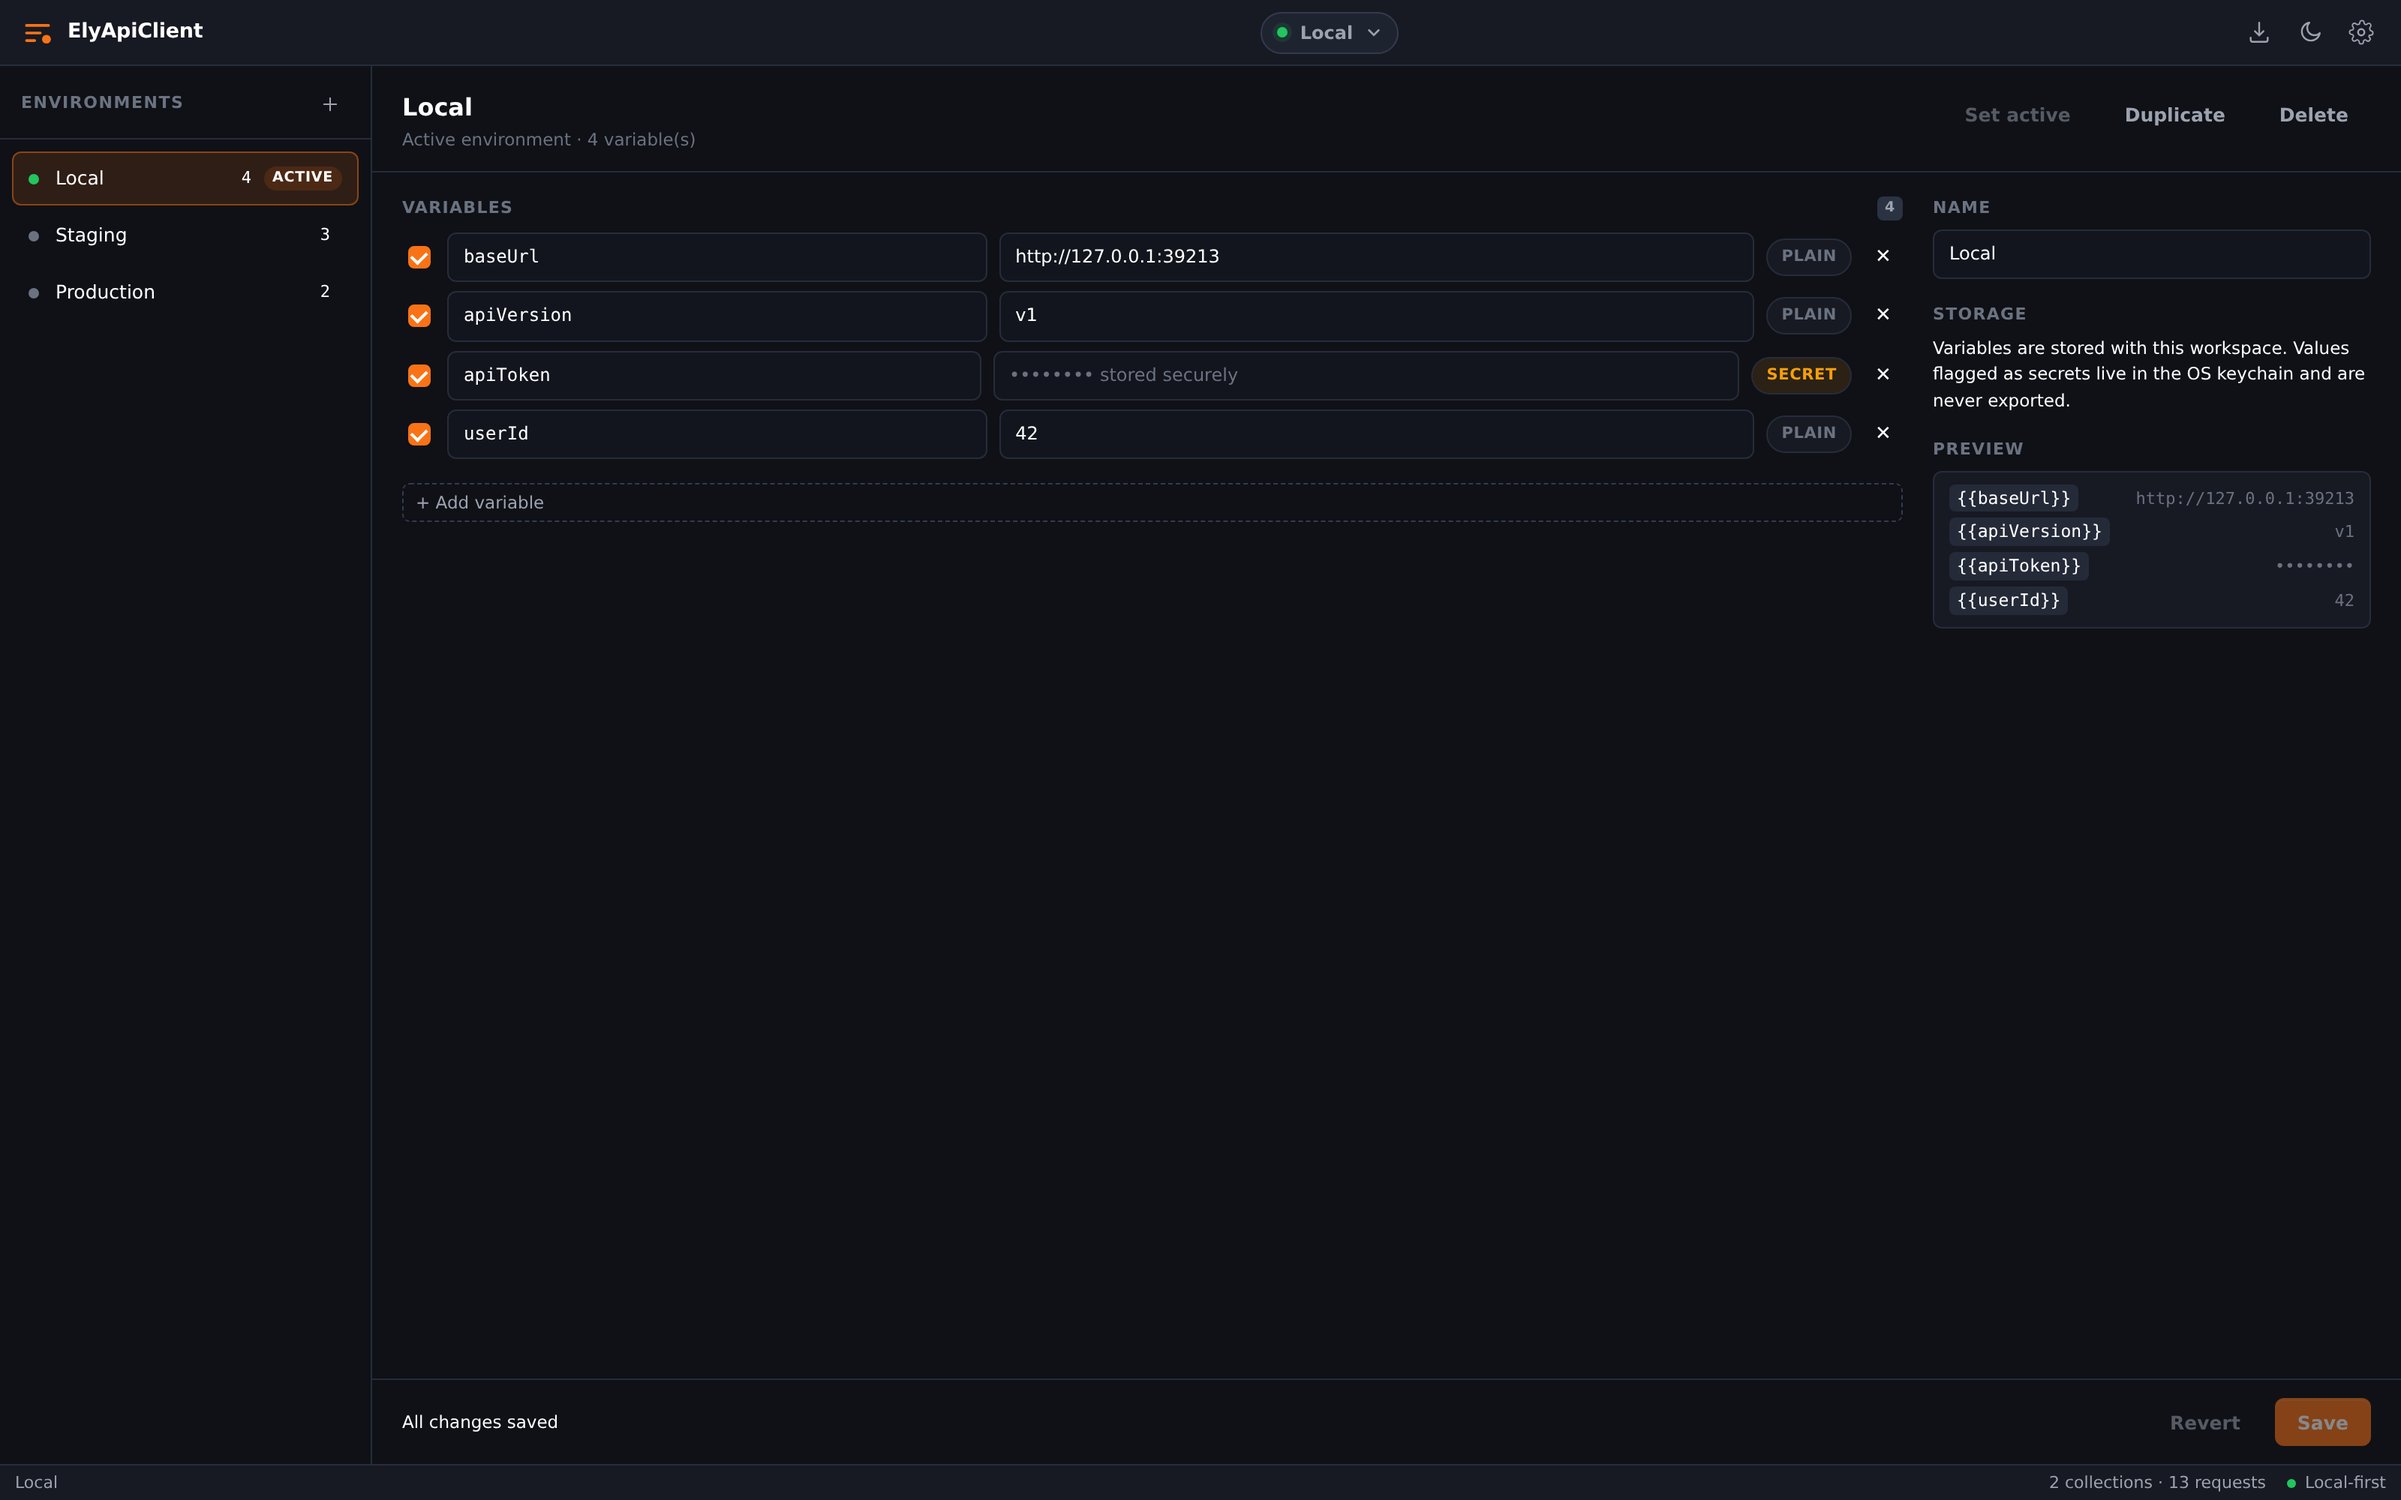
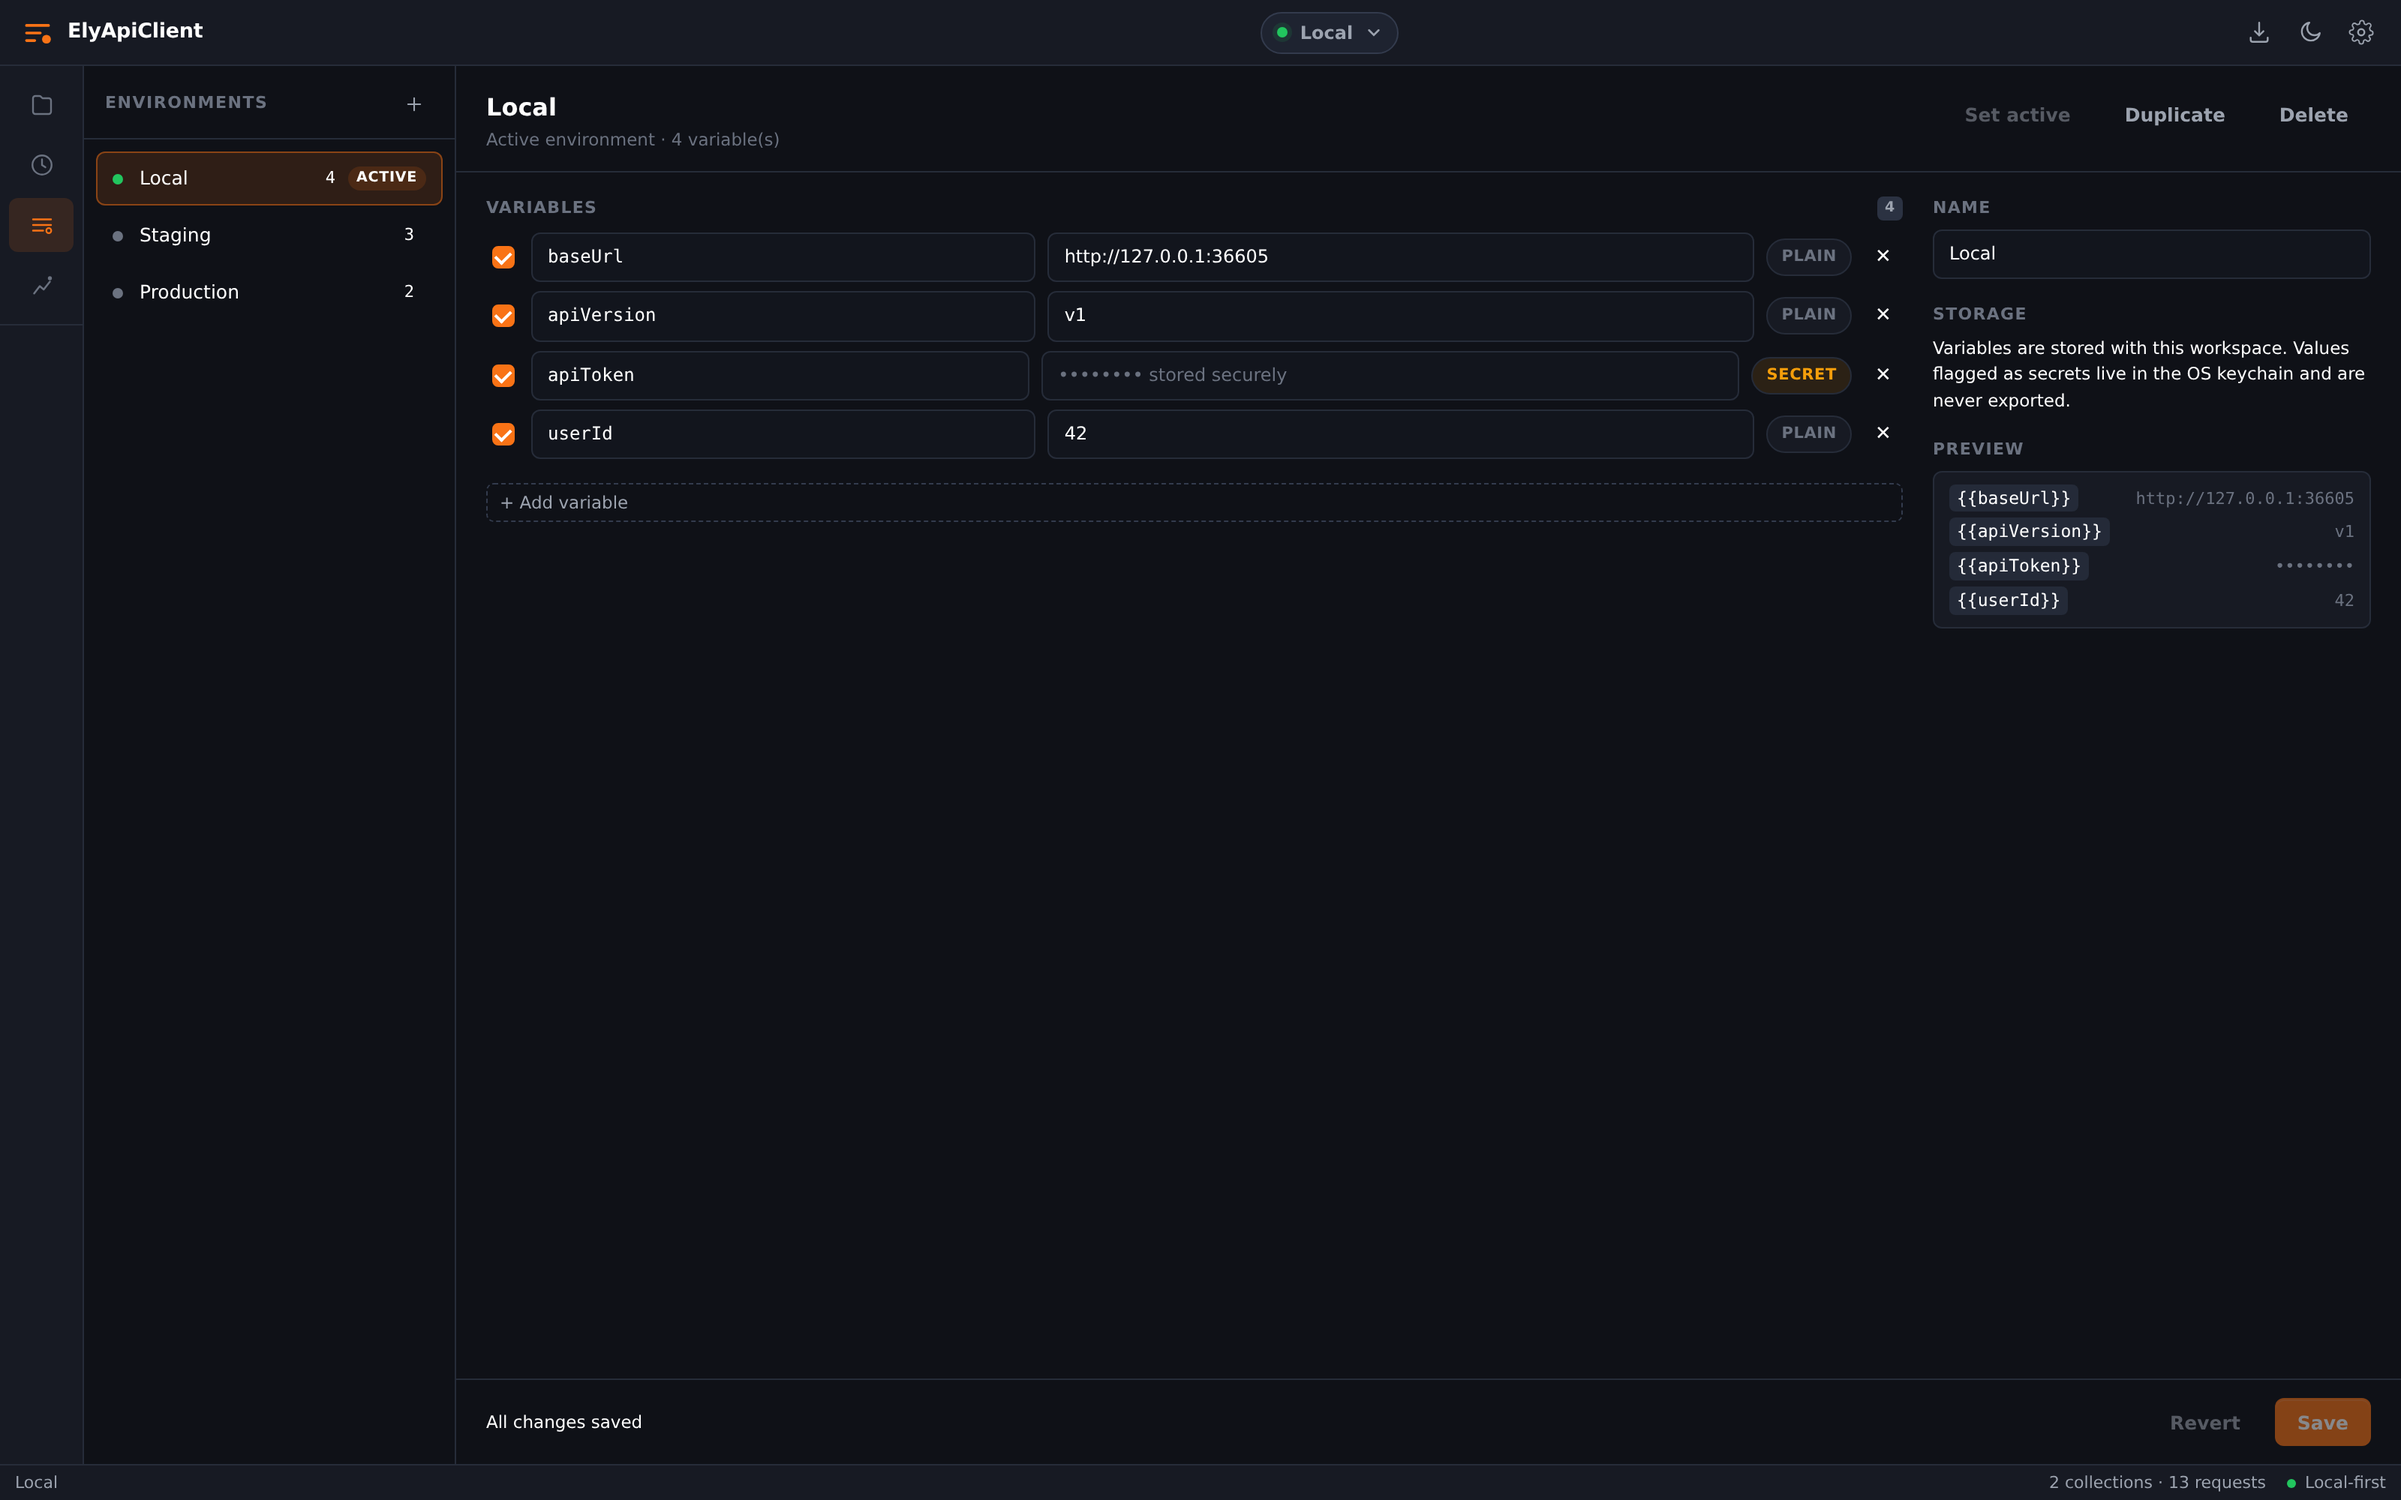
Keep every section reachable from the environment manager
The manager replaced the whole pane and hid the explorer with it, which stranded the
user inside it: the section tabs were gone and clicking an open request tab did not
bring the editor back. The explorer now collapses to a slim icon rail while the
manager is open, section switching is factored into selectSection(), and activating a
document leaves the manager (and any WebSocket session) behind.

Also adds the explorer footer from the reference design: + New Collection and
+ New Folder, with the folder created in whichever collection or folder is selected.

diff --git a/media/scripts/app.js b/media/scripts/app.js
@@ -571,6 +571,11 @@
     state.activeId = id;
     state.selection = { type: 'request', id };
     renderTabs();
+    // The environment manager replaces the whole pane; opening a request must bring the editor
+    // back into view instead of leaving the user on the manager.
+    if (state.section === 'environments' || state.websocketOpen) {
+      selectSection('collections');
+    }
     renderWorkspace();
     renderTree();
   }
@@ -1867,6 +1872,31 @@
     });
   }
 
+  /**
+   * Creates a folder in the collection that owns the current selection, so the footer button needs
+   * no extra picker when the user already has a collection in focus.
+   */
+  function createNewFolderFromFooter() {
+    const collections = state.snapshot.collections || [];
+    if (!collections.length) {
+      createCollection();
+      return;
+    }
+    const selection = state.selection || {};
+    let collectionId = null;
+    if (selection.type === 'collection') collectionId = selection.id;
+    if (selection.type === 'folder') {
+      const folder = state.snapshot.folders.find((candidate) => candidate.id === selection.id);
+      if (folder) collectionId = folder.collectionId;
+    }
+    if (selection.type === 'request') {
+      const request = requestById(selection.id);
+      if (request && request.collectionId) collectionId = request.collectionId;
+    }
+    if (!collectionId) collectionId = collections[0].id;
+    createFolder(collectionId, null);
+  }
+
   function createFolder(collectionId, parentFolderId) {
     UI.promptDialog({ title: 'New folder', label: 'Folder name', value: 'New Folder' }).then((name) => {
       if (name) post({ type: 'folder:create', payload: { collectionId, parentFolderId, name } });
@@ -2694,31 +2724,35 @@
       });
     }
     for (const button of $$('.sidebar-tab')) {
-      button.addEventListener('click', () => {
-        state.section = button.dataset.section;
-        Ely.store.set({ section: state.section });
-        for (const tab of $$('.sidebar-tab')) {
-          tab.classList.toggle('is-active', tab === button);
-          tab.setAttribute('aria-selected', tab === button ? 'true' : 'false');
-        }
-        for (const panel of $$('.sidebar-panel')) {
-          panel.hidden = panel.dataset.panel !== state.section;
-        }
-        // The manager owns the whole pane (it renders its own environment list), so the explorer
-        // column is collapsed while it is active.
-        document.body.classList.toggle('manager-mode', state.section === 'environments');
-        if (state.section === 'environments') {
-          renderWorkspace();
-          renderEnvironmentManager();
-        }
-        if (state.section === 'websocket') {
-          openWebSocketWorkspace();
-        } else if (state.websocketOpen) {
-          // Switching to any other sidebar section must leave the WebSocket workspace, otherwise
-          // its UI stays on screen and the request editor is unreachable.
-          closeWebSocketWorkspace();
-        }
-      });
+      button.addEventListener('click', () => selectSection(button.dataset.section));
+    }
+  }
+
+  /**
+   * Activates a sidebar section and the workspace it owns. Every section change re-renders the main
+   * pane so leaving the environment manager can never leave it on screen.
+   */
+  function selectSection(section) {
+    state.section = section;
+    Ely.store.set({ section });
+    for (const tab of $$('.sidebar-tab')) {
+      const isActive = tab.dataset.section === section;
+      tab.classList.toggle('is-active', isActive);
+      tab.setAttribute('aria-selected', isActive ? 'true' : 'false');
+    }
+    for (const panel of $$('.sidebar-panel')) {
+      panel.hidden = panel.dataset.panel !== section;
+    }
+    // In manager mode the explorer collapses to an icon rail (see `body.manager-mode`), so the
+    // grid track order must stay sidebar-then-main.
+    document.body.classList.toggle('manager-mode', section === 'environments');
+    renderWorkspace();
+    if (section === 'websocket') {
+      openWebSocketWorkspace();
+    } else if (state.websocketOpen) {
+      // Switching to any other sidebar section must leave the WebSocket workspace, otherwise its
+      // UI stays on screen and the request editor is unreachable.
+      closeWebSocketWorkspace();
     }
   }
 
@@ -2797,6 +2831,8 @@
 
   function bindTopbar() {
     $('#btn-new-collection').addEventListener('click', createCollection);
+    $('#btn-new-collection-footer').addEventListener('click', createCollection);
+    $('#btn-new-folder-footer').addEventListener('click', createNewFolderFromFooter);
     $('#btn-new-environment').addEventListener('click', createEnvironment);
     $('#btn-import').addEventListener('click', () => {
       UI.showMenu($('#btn-import'), [

diff --git a/media/styles/main.css b/media/styles/main.css
@@ -813,6 +813,31 @@ textarea {
   margin-top: 10px;
 }
 
+/* Footer actions of the explorer: the reference design surfaces "New Collection" and "New Folder"
+   as buttons instead of hiding them in the context menu. */
+.sidebar-footer {
+  display: grid;
+  grid-template-columns: 1fr 1fr;
+  gap: 6px;
+  padding: 8px;
+  border-top: 1px solid var(--border);
+  margin-top: auto;
+}
+
+.sidebar-footer .button {
+  justify-content: center;
+  gap: 5px;
+  font-size: 11px;
+  padding: 6px 4px;
+  white-space: nowrap;
+}
+
+.sidebar-footer .button svg {
+  width: 13px;
+  height: 13px;
+  flex: 0 0 auto;
+}
+
 .sidebar-hint {
   margin: 8px;
   padding: 9px 11px;
@@ -3267,15 +3292,29 @@ mark.hit.is-current {
   flex: 1;
 }
 
-/* While the environment manager is open it takes the place of the explorer. `.workspace` is a
-   two-column grid, so the sidebar must be removed from the layout *and* its grid track collapsed —
-   otherwise the manager inherits the narrow column. */
-body.manager-mode .sidebar {
+/* While the environment manager is open it takes the place of the explorer, which would otherwise
+   repeat the environment list. The explorer collapses to an icon rail that keeps every section
+   reachable — hiding it outright stranded the user in the manager with no way back. */
+body.manager-mode .workspace {
+  grid-template-columns: 56px minmax(0, 1fr);
+}
+
+body.manager-mode .sidebar-nav {
+  grid-template-columns: minmax(0, 1fr);
+  gap: 4px;
+  padding: 8px 6px;
+}
+
+body.manager-mode .sidebar-tab {
+  padding: 9px 0;
+}
+
+body.manager-mode .sidebar-tab span {
   display: none;
 }
 
-body.manager-mode .workspace {
-  grid-template-columns: minmax(0, 1fr);
+body.manager-mode .sidebar-body {
+  display: none;
 }
 
 /* The manager is the only flex child of `.main` while active, so it must flex to fill it. */

diff --git a/media/webview/index.html b/media/webview/index.html
@@ -77,6 +77,16 @@
                 </button>
               </div>
               <div id="collection-tree" class="tree" role="tree" aria-label="Collections"></div>
+              <footer class="sidebar-footer">
+                <button id="btn-new-collection-footer" class="button ghost small" type="button" title="Create a collection">
+                  <svg viewBox="0 0 24 24" aria-hidden="true"><path d="M12 5v14M5 12h14" stroke="currentColor" stroke-width="2" stroke-linecap="round"/></svg>
+                  New Collection
+                </button>
+                <button id="btn-new-folder-footer" class="button ghost small" type="button" title="Create a folder in the selected collection">
+                  <svg viewBox="0 0 24 24" aria-hidden="true"><path d="M4 7a2 2 0 0 1 2-2h3l2 2h7a2 2 0 0 1 2 2v8a2 2 0 0 1-2 2H6a2 2 0 0 1-2-2Z" stroke="currentColor" stroke-width="1.6" fill="none" stroke-linejoin="round"/></svg>
+                  New Folder
+                </button>
+              </footer>
             </div>
 
             <div class="sidebar-panel" data-panel="history" hidden>

diff --git a/README.md b/README.md
@@ -74,7 +74,9 @@ webview never receives a stored secret back.
 ### 6. Collections and folders
 
 Nested collections, folders and requests with drag-free organisation, inline rename, duplicate,
-move, delete (with confirmation), and search across the tree.
+move, delete (with confirmation), and search across the tree. The footer keeps **+ New Collection**
+and **+ New Folder** one click away — the folder lands in whichever collection or folder is selected,
+so organising never means hunting through a context menu.
 
 ![Collections and folders](docs/screenshots/06-collections.png)
 
@@ -88,7 +90,8 @@ A master-detail editor: environments on the left, the selected environment's var
 with a live `{{variable}}` preview, per-variable secret flags and "Set active" / "Duplicate" /
 "Delete" actions. Edits are held as a draft until **Save**, so you can't lose work by switching
 environments, and **Revert** restores the stored values. Quick switching is also available from the
-title bar or `Ctrl+Alt+V`.
+title bar or `Ctrl+Alt+V`. While the manager is open the explorer collapses to a slim icon rail, so
+every other section stays one click away instead of the manager trapping you in its own view.
 
 ![Environment manager](docs/screenshots/07-environments.png)
 
